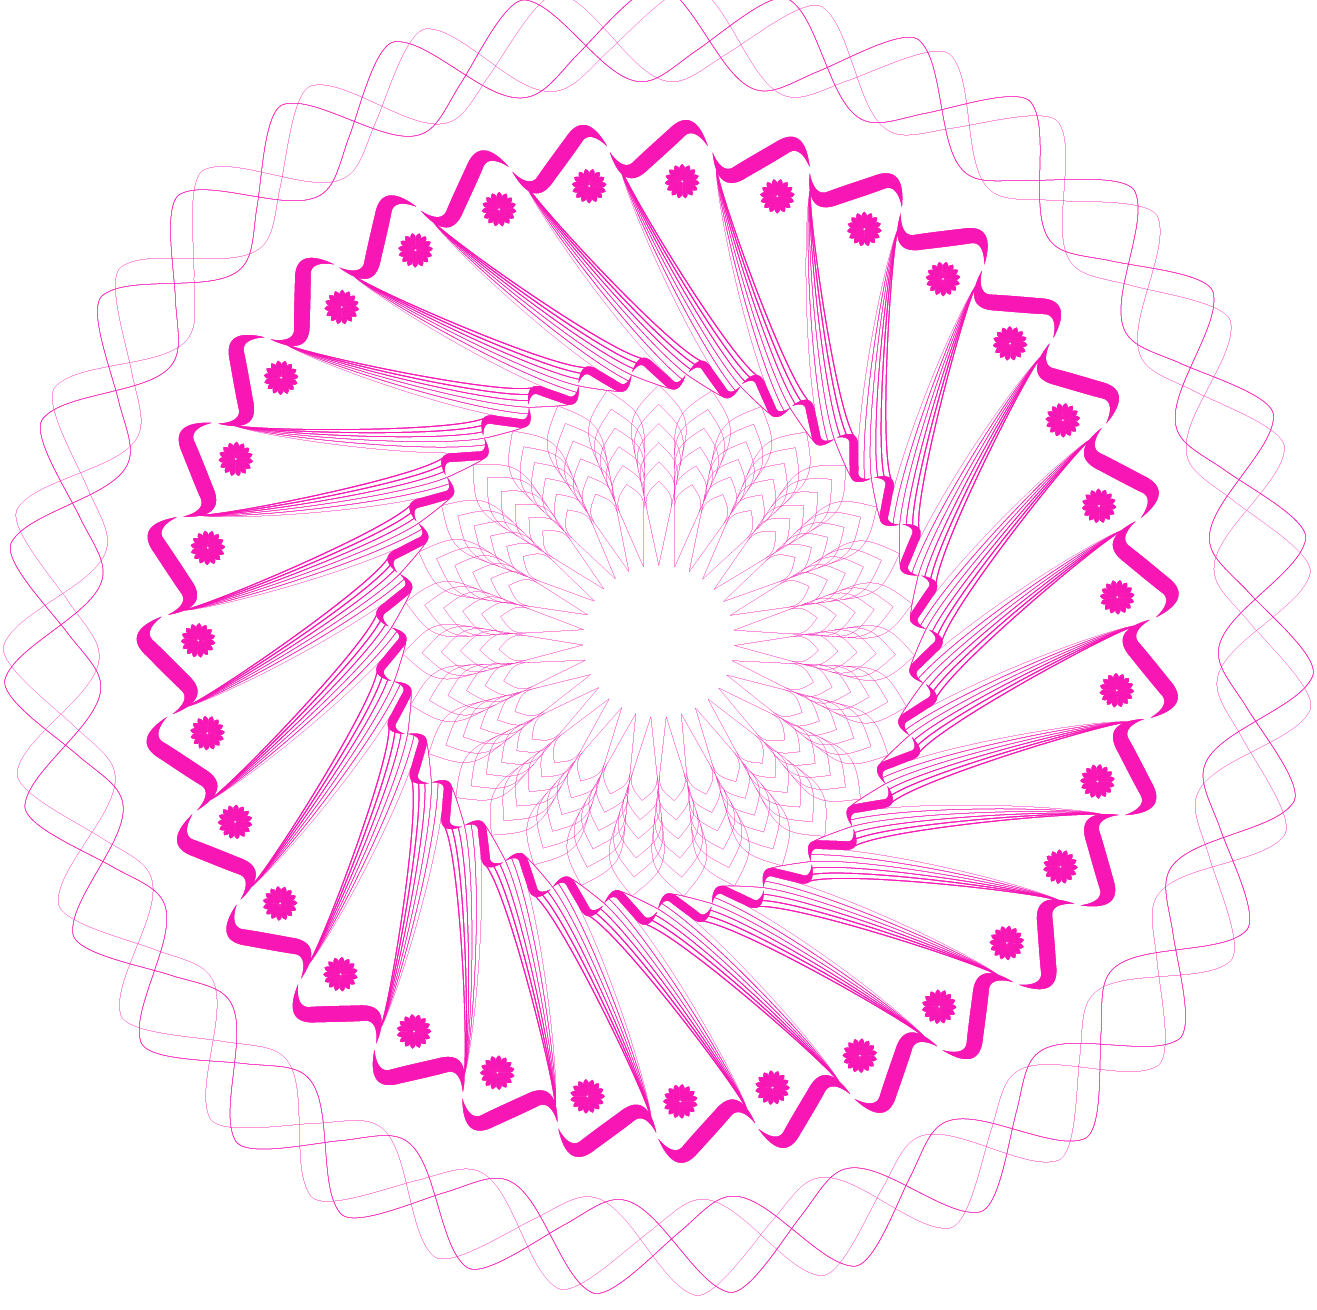
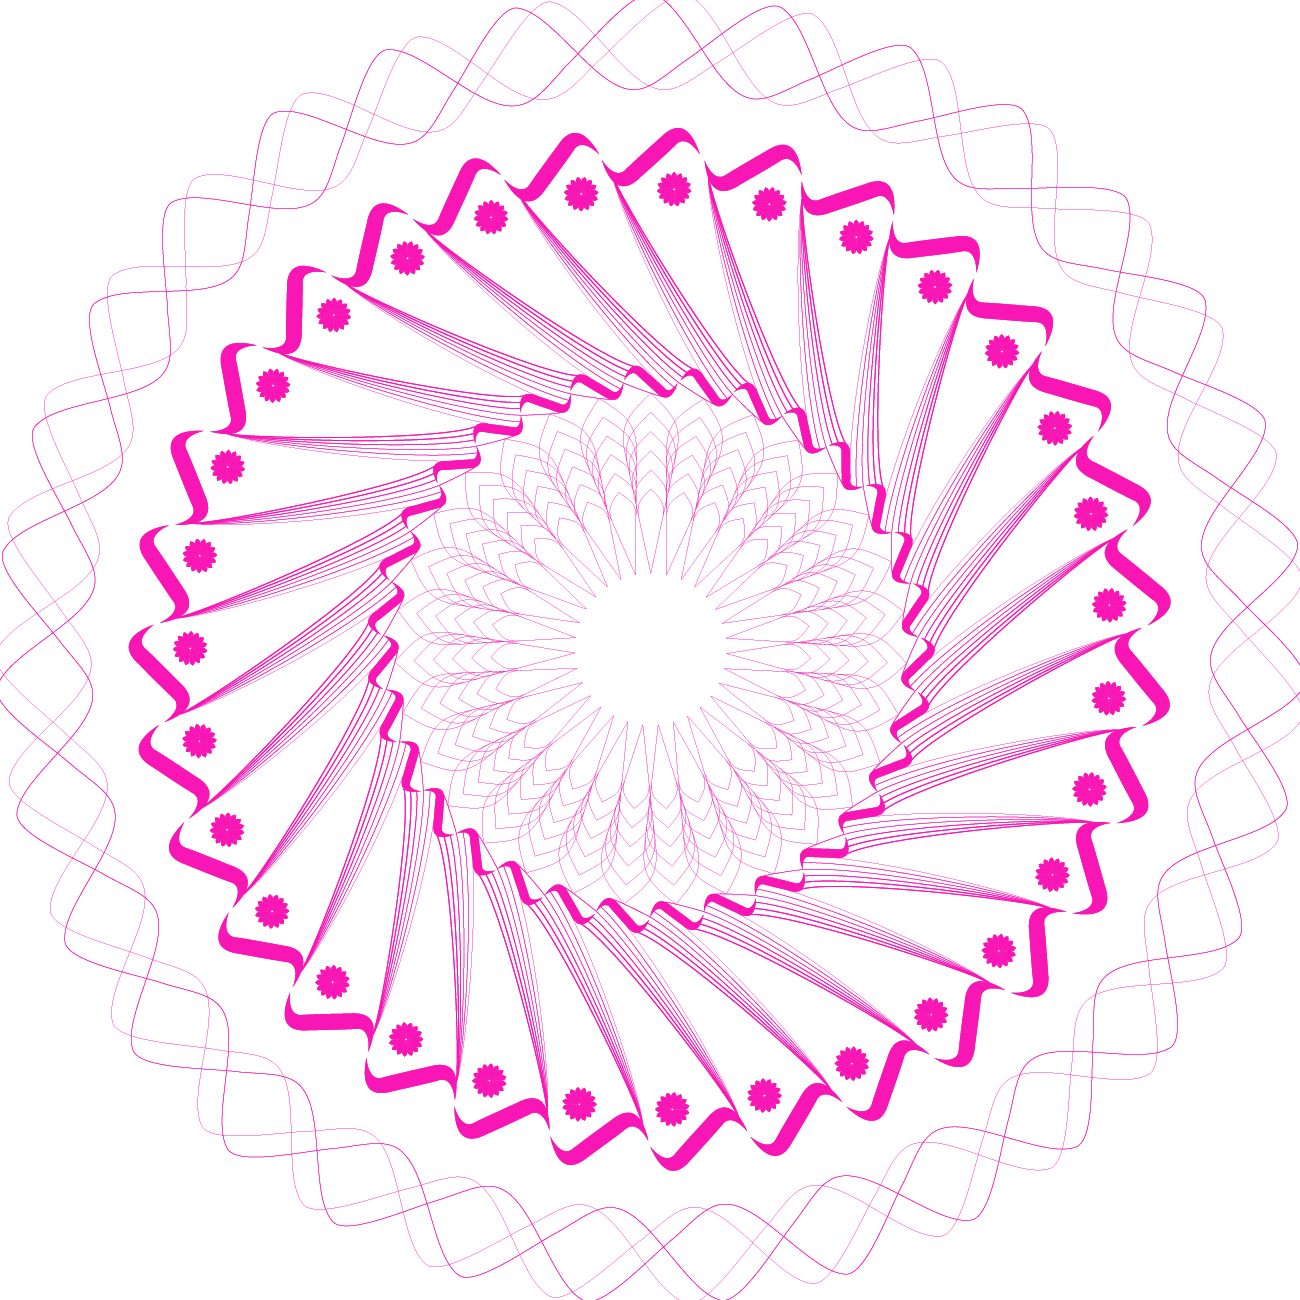
vertex rotation is working but not texture rotation

diff --git a/index.html b/index.html
@@ -264,7 +264,7 @@
 
 				var mvMatrix = mat4.create();
                 mat4.identity(mvMatrix);	                
-                mat4.rotate(mvMatrix, Math.PI/2, [0,0,1])			
+                mat4.rotate(mvMatrix, Math.PI/3, [0,1,0])			
 
                 gl.uniformMatrix4fv(currentProgram.mvMatrix, false, mvMatrix);
                 
